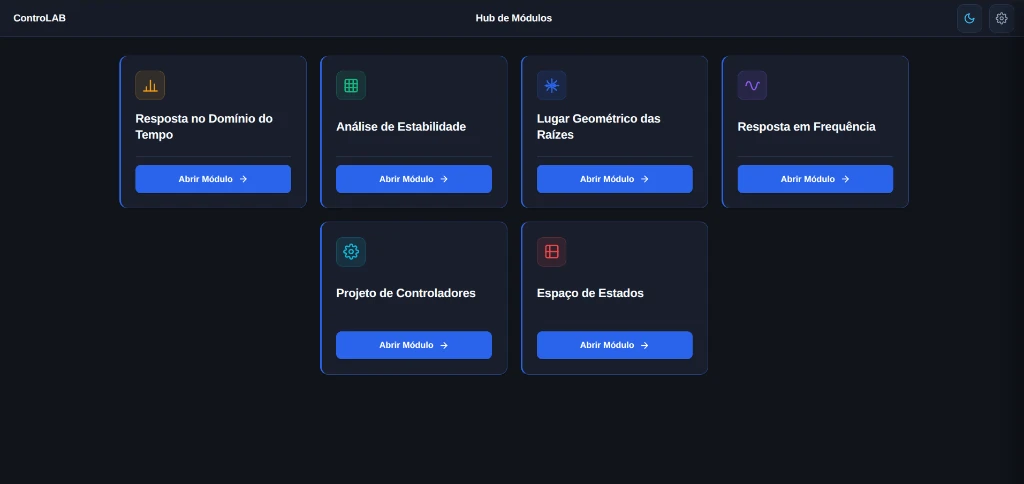
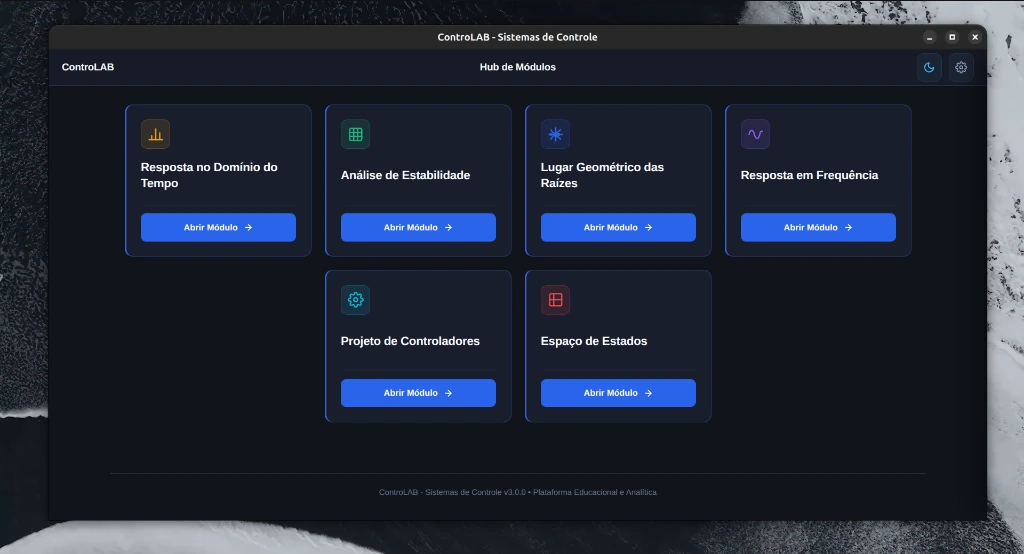
feat(ui): definir nova imagem principal webp da suite v3.0.0

diff --git a/public/index.html b/public/index.html
@@ -14,8 +14,10 @@
   <!-- Open Graph / Meta Social -->
   <meta property="og:title" content="ControLAB — O Ambiente Definitivo para Sistemas de Controle">
   <meta property="og:description" content="Ambiente integrado para Engenharia e Sistemas de Controle: LGR, Estabilidade por Routh-Hurwitz, Resposta no Tempo (Degrau e Impulso), Frequência (Bode e Nyquist) e Projeto de Controladores. Disponível para Linux, Windows e Android.">
-  <meta property="og:image" content="app-icon.svg">
+  <meta property="og:image" content="screenshots/hub-modulos.webp">
   <meta property="og:type" content="website">
+  <meta name="twitter:card" content="summary_large_image">
+  <meta name="twitter:image" content="screenshots/hub-modulos.webp">
 
   <link rel="icon" type="image/svg+xml" href="app-icon.svg">
   <link rel="preconnect" href="https://fonts.googleapis.com">
@@ -143,7 +145,7 @@
           </div>
           <div class="mockup-body">
             <div class="mockup-screen-container">
-              <img id="mockup-img-hub" class="mockup-screen-img active" src="screenshots/hub-modulos.webp" alt="Interface ControLAB - Hub Central de Módulos" width="1024" height="484" fetchpriority="high">
+              <img id="mockup-img-hub" class="mockup-screen-img active" src="screenshots/hub-modulos.webp" alt="Interface ControLAB - Hub Central de Módulos" width="1024" height="554" fetchpriority="high">
               <img id="mockup-img-time" class="mockup-screen-img" src="screenshots/resposta-tempo.webp" alt="Interface ControLAB - Resposta no Domínio do Tempo" width="1024" height="529" loading="lazy">
               <img id="mockup-img-lgr" class="mockup-screen-img" src="screenshots/lugar-das-raizes.webp" alt="Interface ControLAB - Lugar Geométrico das Raízes (LGR)" width="1024" height="529" loading="lazy">
               <img id="mockup-img-freq" class="mockup-screen-img" src="screenshots/resposta-frequencia.webp" alt="Interface ControLAB - Resposta em Frequência (Bode e Nyquist)" width="1024" height="529" loading="lazy">
@@ -458,7 +460,7 @@
         <!-- Card 1: Hub Central -->
         <article class="interface-gallery-card" data-mockup-trigger="hub">
           <div class="gallery-card-img-wrap">
-            <img src="screenshots/hub-modulos.webp" alt="Hub Central de Módulos do ControLAB" loading="lazy" width="1024" height="484">
+            <img src="screenshots/hub-modulos.webp" alt="Hub Central de Módulos do ControLAB" loading="lazy" width="1024" height="554">
             <div class="gallery-card-overlay">
               <span class="gallery-card-zoom-btn">
                 <svg width="16" height="16" viewBox="0 0 24 24" fill="none" stroke="currentColor" stroke-width="2.2"><circle cx="11" cy="11" r="8"/><line x1="21" y1="21" x2="16.65" y2="16.65"/><line x1="11" y1="8" x2="11" y2="14"/><line x1="8" y1="11" x2="14" y2="11"/></svg>
@@ -469,7 +471,7 @@
           <div class="gallery-card-info">
             <div class="gallery-card-meta">
               <span class="gallery-card-badge">Página Inicial</span>
-              <span class="gallery-card-res">1024 × 484</span>
+              <span class="gallery-card-res">1024 × 554</span>
             </div>
             <h3 class="gallery-card-title">Hub Central Integrado</h3>
             <p class="gallery-card-desc">Grid dinâmico com acesso direto a todos os 6 módulos analíticos de sistemas de controle.</p>

diff --git a/README.md b/README.md
@@ -41,7 +41,16 @@ A aplicação organiza os domínios clássicos e modernos de controle a partir d
 
 ## Interface da Aplicação
 
-O ControLAB oferece uma interface escura, responsiva e 100% offline, projetada para estudo, simulação e projeto de sistemas dinâmicos. Veja abaixo as capturas de tela em resolução completa de cada módulo (clique em qualquer imagem para abrir em tamanho original):
+O ControLAB oferece uma interface escura, responsiva e 100% offline, projetada para estudo, simulação e projeto de sistemas dinâmicos. Veja abaixo as capturas de tela em resolução completa da tela principal e de cada módulo (clique em qualquer imagem para abrir em tamanho original):
+
+### Tela Principal: Hub Central Integrado (v3.0.0)
+Visão inicial unificada com acesso direto a todos os 6 módulos analíticos da suíte de sistemas de controle.
+
+<p align="center">
+  <a href="docs/screenshots/hub-modulos.webp">
+    <img src="docs/screenshots/hub-modulos.webp" alt="Hub Central de Módulos do ControLAB" width="100%">
+  </a>
+</p>
 
 ### 1. Resposta no Domínio do Tempo
 Simulação da resposta transitória e em regime permanente para sinais degrau, impulso e rampa, com cálculo automático de métricas transitórias ($\%OS$, $t_s$, $t_p$, $t_r$), fator de amortecimento ($\zeta$), frequência natural ($\omega_n$) e mapa de polos.
